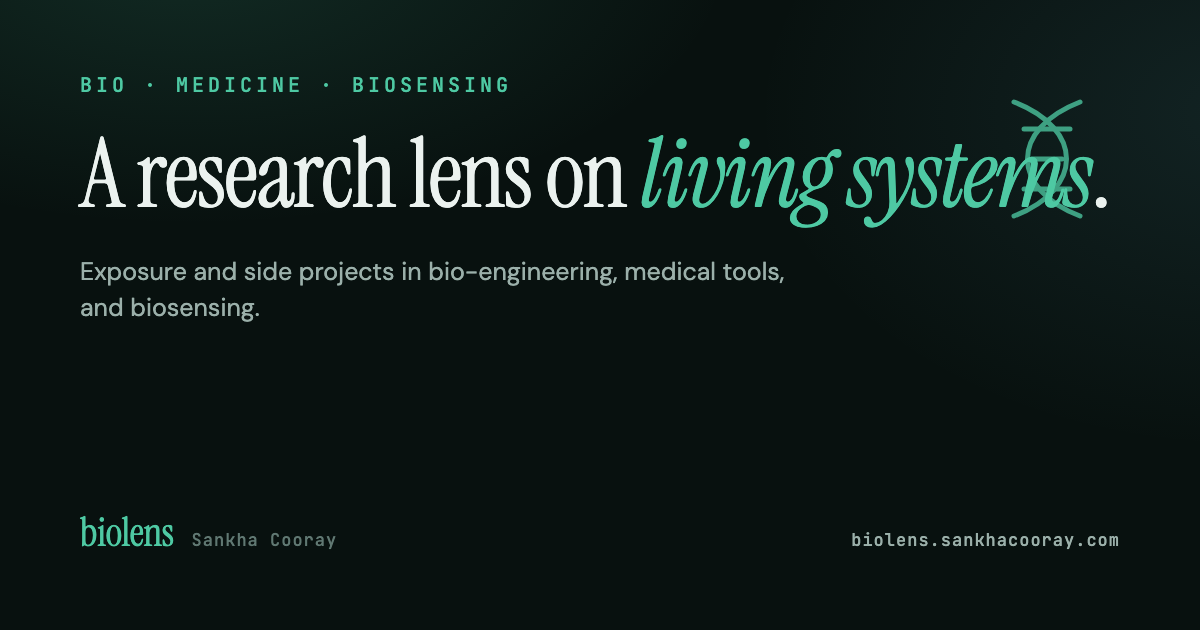
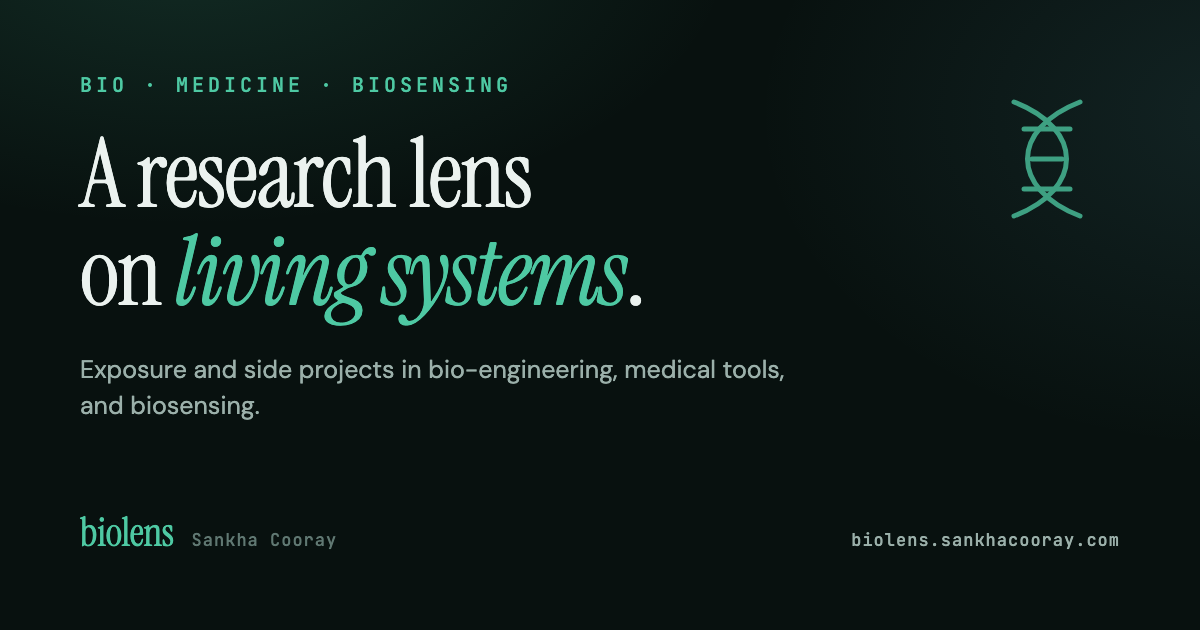
Split OG headline to two lines so it clears the helix graphic
🤖 Generated with [Claude Code](https://claude.com/claude-code)

diff --git a/assets/og-card.html b/assets/og-card.html
@@ -52,7 +52,7 @@
 
   <div>
     <div class="eyebrow">bio · medicine · biosensing</div>
-    <h1>A research lens on <em>living systems</em>.</h1>
+    <h1>A research lens<br>on <em>living systems</em>.</h1>
     <div class="lede">Exposure and side projects in bio-engineering, medical tools, and biosensing.</div>
   </div>
 
